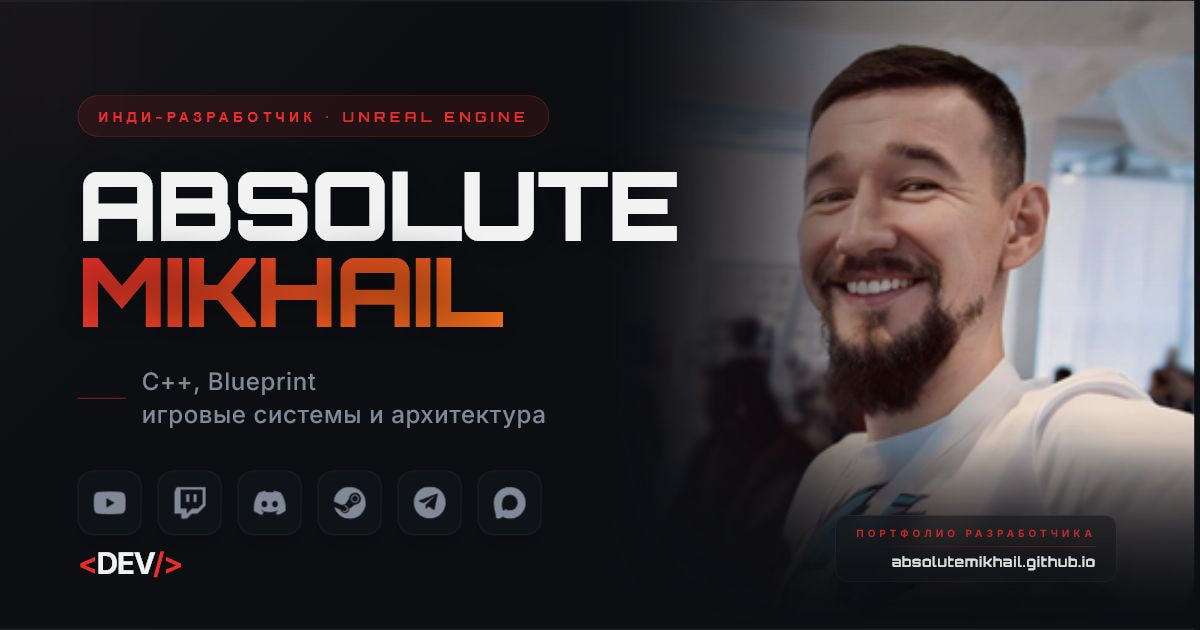
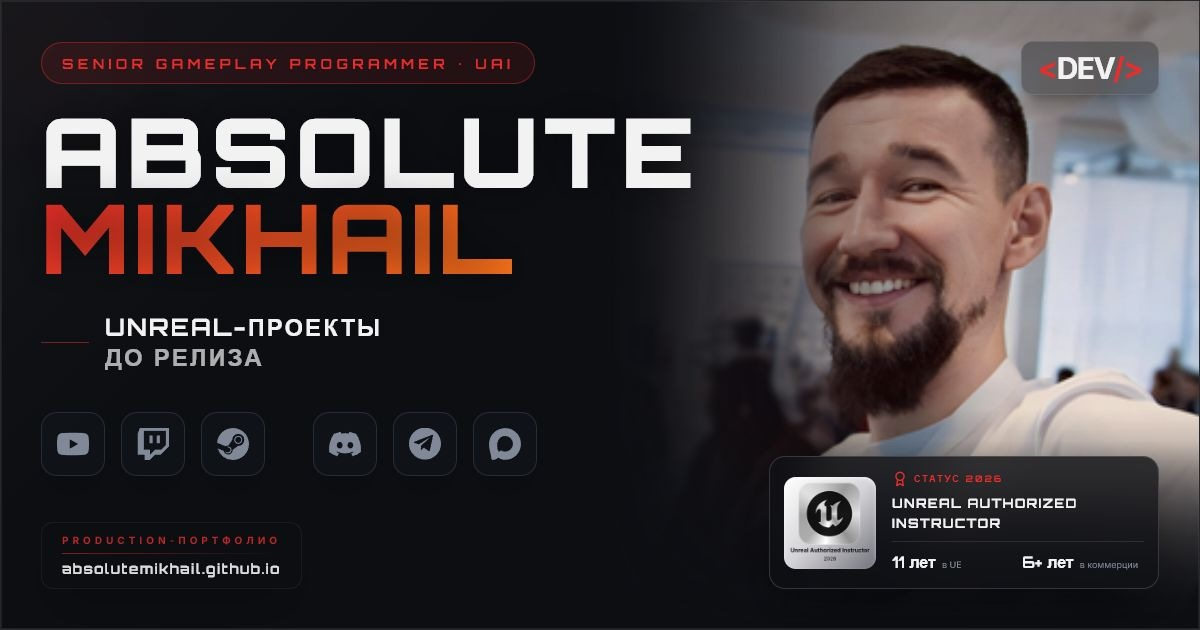
замена сниппета

diff --git a/src/pages/OGSnippet.tsx b/src/pages/OGSnippet.tsx
@@ -1,9 +1,11 @@
 import { motion } from "framer-motion";
 import { useEffect } from "react";
+import { Award } from "lucide-react";
 import heroPhoto from "@/assets/hero-photo.jpg";
-import { DiscordIcon, SteamIcon, TelegramIcon, YoutubeIcon, TwitchIcon } from "@/components/SocialIcons";
+import uaiBadge from "@/assets/uai-badge-2026.png";
+import { DiscordIcon, MaxIcon, SteamIcon, TelegramIcon, YoutubeIcon, TwitchIcon } from "@/components/SocialIcons";
 import Logo from "@/components/Logo";
-import { ProtectedSocialButton } from "@/components/ProtectedSocialButton";
+import { decodeContactLink, encodedContactLinks } from "@/constants/contactLinks";
 
 const OGSnippet = () => {
   useEffect(() => {
@@ -26,6 +28,10 @@ const OGSnippet = () => {
       document.documentElement.classList.remove('snippet-capture');
     };
   }, []);
+
+  const openPrivateContact = (encodedLink: string) => {
+    window.open(decodeContactLink(encodedLink), "_blank", "noopener,noreferrer");
+  };
 
   return (
     <div className="min-h-screen bg-black flex items-center justify-center p-0 overflow-hidden">
@@ -100,7 +106,7 @@ const OGSnippet = () => {
         {/* ============================================================================== */}
 
         {/* Left Side Content */}
-        <div className="relative z-10 h-full flex flex-col justify-center px-20 max-w-3xl">
+        <div className="relative z-10 flex h-full max-w-3xl -translate-y-14 flex-col justify-center px-10">
           <motion.div
             initial={{ opacity: 0, x: -20 }}
             animate={{ opacity: 1, x: 0 }}
@@ -114,7 +120,7 @@ const OGSnippet = () => {
           <motion.h1
             initial={{ opacity: 0, y: 20 }}
             animate={{ opacity: 1, y: 0 }}
-            className="text-8xl font-display font-black leading-[0.9] mb-8 tracking-tight"
+            className="mb-8 font-display text-8xl font-black leading-[0.9] tracking-[0.05em]"
             style={{ textShadow: '0 0 40px rgba(0,0,0,0.5)' }}
           >
             <span className="text-foreground">ABSOLUTE</span>
@@ -129,9 +135,9 @@ const OGSnippet = () => {
             className="flex items-center gap-4 mb-10"
           >
             <div className="h-px w-12 bg-primary/50" />
-            <p className="text-2xl text-muted-foreground font-medium tracking-wide leading-snug">
-              <span className="block">Unreal Engine с 2015 года</span>
-              <span className="block">6+ лет коммерческой разработки</span>
+            <p className="font-display text-2xl font-bold uppercase leading-tight tracking-[0.08em]">
+              <span className="block text-foreground">Unreal-проекты</span>
+              <span className="block text-foreground/70">до релиза</span>
             </p>
           </motion.div>
 
@@ -139,57 +145,109 @@ const OGSnippet = () => {
             initial={{ opacity: 0, y: 20 }}
             animate={{ opacity: 1, y: 0 }}
             transition={{ delay: 0.4 }}
-            className="flex gap-4"
+            className="flex gap-12"
           >
-            {[
-              { icon: YoutubeIcon, label: "YouTube", href: "https://www.youtube.com/@Absolute-Unreal" },
-              { icon: TwitchIcon, label: "Twitch", href: "https://www.twitch.tv/absolutemikhail" },
-              { icon: DiscordIcon, label: "Discord-сообщество", href: "https://discord.gg/NkwZ8pqyS6" },
-              { icon: SteamIcon, label: "Steam", href: "https://store.steampowered.com/developer/GamePunk-Studio" },
-              { icon: TelegramIcon, label: "Telegram", href: "https://t.me/AbsoluteUnderground" },
-            ].map((social) => (
-              <a
-                key={social.label}
-                href={social.href}
-                target="_blank"
-                rel="noopener noreferrer"
-                aria-label={social.label}
-                className="w-16 h-16 rounded-2xl border border-border bg-card/40 backdrop-blur-md flex items-center justify-center text-muted-foreground shadow-xl transition-all duration-300 hover:-translate-y-1 hover:border-primary/50 hover:bg-primary/10 hover:text-primary hover:shadow-lg hover:shadow-primary/20 active:scale-95 focus-visible:outline-none focus-visible:ring-2 focus-visible:ring-primary/60"
-              >
-                <social.icon className="w-8 h-8" />
-              </a>
-            ))}
-            <ProtectedSocialButton
-              className="w-16 h-16 rounded-2xl border border-border bg-card/40 backdrop-blur-md flex items-center justify-center text-muted-foreground shadow-xl transition-all duration-300 hover:-translate-y-1 hover:border-primary/50 hover:bg-primary/10 hover:text-primary hover:shadow-lg hover:shadow-primary/20 active:scale-95 focus-visible:outline-none focus-visible:ring-2 focus-visible:ring-primary/60"
-              iconClassName="w-8 h-8"
-            />
+            <span className="flex gap-4">
+              {[
+                { icon: YoutubeIcon, label: "YouTube", href: "https://www.youtube.com/@Absolute-Unreal" },
+                { icon: TwitchIcon, label: "Twitch", href: "https://www.twitch.tv/absolutemikhail" },
+                { icon: SteamIcon, label: "Steam", href: "https://store.steampowered.com/developer/GamePunk-Studio" },
+              ].map((social) => (
+                <a
+                  key={social.label}
+                  href={social.href}
+                  target="_blank"
+                  rel="noopener noreferrer"
+                  aria-label={social.label}
+                  className="flex h-16 w-16 items-center justify-center rounded-2xl border border-border bg-card/40 text-muted-foreground shadow-xl backdrop-blur-md transition-all duration-300 hover:-translate-y-1 hover:border-primary/50 hover:bg-primary/10 hover:text-primary hover:shadow-lg hover:shadow-primary/20 active:scale-95 focus-visible:outline-none focus-visible:ring-2 focus-visible:ring-primary/60"
+                >
+                  <social.icon className="h-8 w-8" />
+                </a>
+              ))}
+            </span>
+
+            <span className="flex gap-4">
+              {[
+                { icon: DiscordIcon, label: "Discord — личный профиль", encodedLink: encodedContactLinks.discordProfile },
+                { icon: TelegramIcon, label: "Telegram — личный профиль", encodedLink: encodedContactLinks.telegram },
+                { icon: MaxIcon, label: "MAX — личный профиль", encodedLink: encodedContactLinks.max },
+              ].map((social) => (
+                <button
+                  key={social.label}
+                  type="button"
+                  onClick={() => openPrivateContact(social.encodedLink)}
+                  aria-label={social.label}
+                  title={social.label}
+                  className="flex h-16 w-16 items-center justify-center rounded-2xl border border-border bg-card/40 text-muted-foreground shadow-xl backdrop-blur-md transition-all duration-300 hover:-translate-y-1 hover:border-primary/50 hover:bg-primary/10 hover:text-primary hover:shadow-lg hover:shadow-primary/20 active:scale-95 focus-visible:outline-none focus-visible:ring-2 focus-visible:ring-primary/60"
+                >
+                  <social.icon className="h-8 w-8" />
+                </button>
+              ))}
+            </span>
           </motion.div>
         </div>
 
-        {/* Bottom Bar / Branding */}
-        <div className="absolute bottom-12 left-20 right-20 flex justify-between items-end z-20">
-          <Logo className="text-3xl font-bold tracking-tighter" />
+        {/* Compact credential card: mirrors the trust block from the main hero. */}
+        <a
+          href="https://absolutemikhail.github.io/#proof"
+          target="_blank"
+          rel="noopener noreferrer"
+          aria-label="Unreal Authorized Instructor — открыть подтверждённый опыт"
+          className="group absolute bottom-10 right-10 z-20 w-[390px] rounded-2xl border border-white/15 bg-background/70 p-3.5 shadow-2xl shadow-black/50 backdrop-blur-xl transition-all duration-300 hover:-translate-y-1 hover:border-primary/40 hover:bg-background/85 hover:shadow-primary/10 active:scale-[0.99] focus-visible:outline-none focus-visible:ring-2 focus-visible:ring-primary/60"
+        >
+          <span className="flex items-center gap-4">
+            <span className="flex h-[92px] w-[92px] shrink-0 items-center justify-center overflow-hidden rounded-xl bg-gradient-to-br from-white via-zinc-300 to-zinc-500 p-1 shadow-inner shadow-white/50">
+              <img
+                src={uaiBadge}
+                alt="Unreal Authorized Instructor 2026"
+                className="h-full w-full object-contain"
+              />
+            </span>
 
-          {/* Твоя стеклянная карточка теперь на месте */}
-          <a
-            href="https://absolutemikhail.github.io/"
-            target="_blank"
-            rel="noopener noreferrer"
-            aria-label="Открыть портфолио Absolute Mikhail"
-            className="group flex flex-col items-end bg-background/40 backdrop-blur-md px-5 py-3 rounded-xl border border-white/5 shadow-2xl transition-all duration-300 hover:-translate-y-1 hover:border-primary/30 hover:bg-primary/10 hover:shadow-primary/20 active:scale-[0.98] focus-visible:outline-none focus-visible:ring-2 focus-visible:ring-primary/60"
-          >
-              <p className="text-[10px] uppercase tracking-[0.4em] text-primary/80 mb-2 font-black leading-none transition-colors group-hover:text-primary">
-              Production-портфолио
-            </p>
+            <span className="min-w-0 flex-1">
+              <span className="mb-1.5 flex items-center gap-1.5 text-primary">
+                <Award className="h-4 w-4" />
+                <span className="font-display text-[9px] font-bold uppercase tracking-[0.22em]">
+                  Статус 2026
+                </span>
+              </span>
+              <strong className="block font-display text-[13px] uppercase leading-5 tracking-[0.09em] text-foreground">
+                Unreal Authorized Instructor
+              </strong>
+              <span className="mt-2 grid grid-cols-2 gap-2 border-t border-white/10 pt-2">
+                <span>
+                  <strong className="font-display text-base text-foreground">11 лет</strong>
+                  <span className="ml-1.5 text-[9px] text-muted-foreground">в UE</span>
+                </span>
+                <span>
+                  <strong className="font-display text-base text-foreground">6+ лет</strong>
+                  <span className="ml-1.5 text-[9px] text-muted-foreground">в коммерции</span>
+                </span>
+              </span>
+            </span>
+          </span>
+        </a>
 
-            {/* Тонкая линия-разделитель в стиле UI игровых движков */}
-            <div className="h-[1px] w-full bg-gradient-to-l from-primary/50 to-transparent mb-2" />
+        {/* Corner branding */}
+        <Logo className="absolute right-10 top-10 z-20 rounded-xl border border-white/10 bg-background/35 px-4 py-2 text-3xl font-bold tracking-tighter shadow-xl shadow-black/25 backdrop-blur-md" />
 
-              <p className="text-sm font-display font-bold text-foreground/90 tracking-wider leading-none antialiased transition-colors group-hover:text-primary">
-                  absolutemikhail.github.io
-              </p>
-          </a>
-        </div>
+        <a
+          href="https://absolutemikhail.github.io/"
+          target="_blank"
+          rel="noopener noreferrer"
+          aria-label="Открыть портфолио Absolute Mikhail"
+          className="group absolute bottom-10 left-10 z-20 flex flex-col items-start rounded-xl border border-white/5 bg-background/40 px-5 py-3 shadow-2xl backdrop-blur-md transition-all duration-300 hover:-translate-y-1 hover:border-primary/30 hover:bg-primary/10 hover:shadow-primary/20 active:scale-[0.98] focus-visible:outline-none focus-visible:ring-2 focus-visible:ring-primary/60"
+        >
+          <p className="mb-2 text-[10px] font-black uppercase leading-none tracking-[0.4em] text-primary/80 transition-colors group-hover:text-primary">
+            Production-портфолио
+          </p>
+
+          <div className="mb-2 h-px w-full bg-gradient-to-r from-primary/50 to-transparent" />
+
+          <p className="font-display text-sm font-bold leading-none tracking-[0.092em] text-foreground/90 antialiased transition-colors group-hover:text-primary">
+            absolutemikhail.github.io
+          </p>
+        </a>
 
         {/* Decorative corner accents */}
         <div className="absolute top-0 left-0 w-32 h-32 bg-gradient-to-br from-primary/10 to-transparent blur-3xl" />
